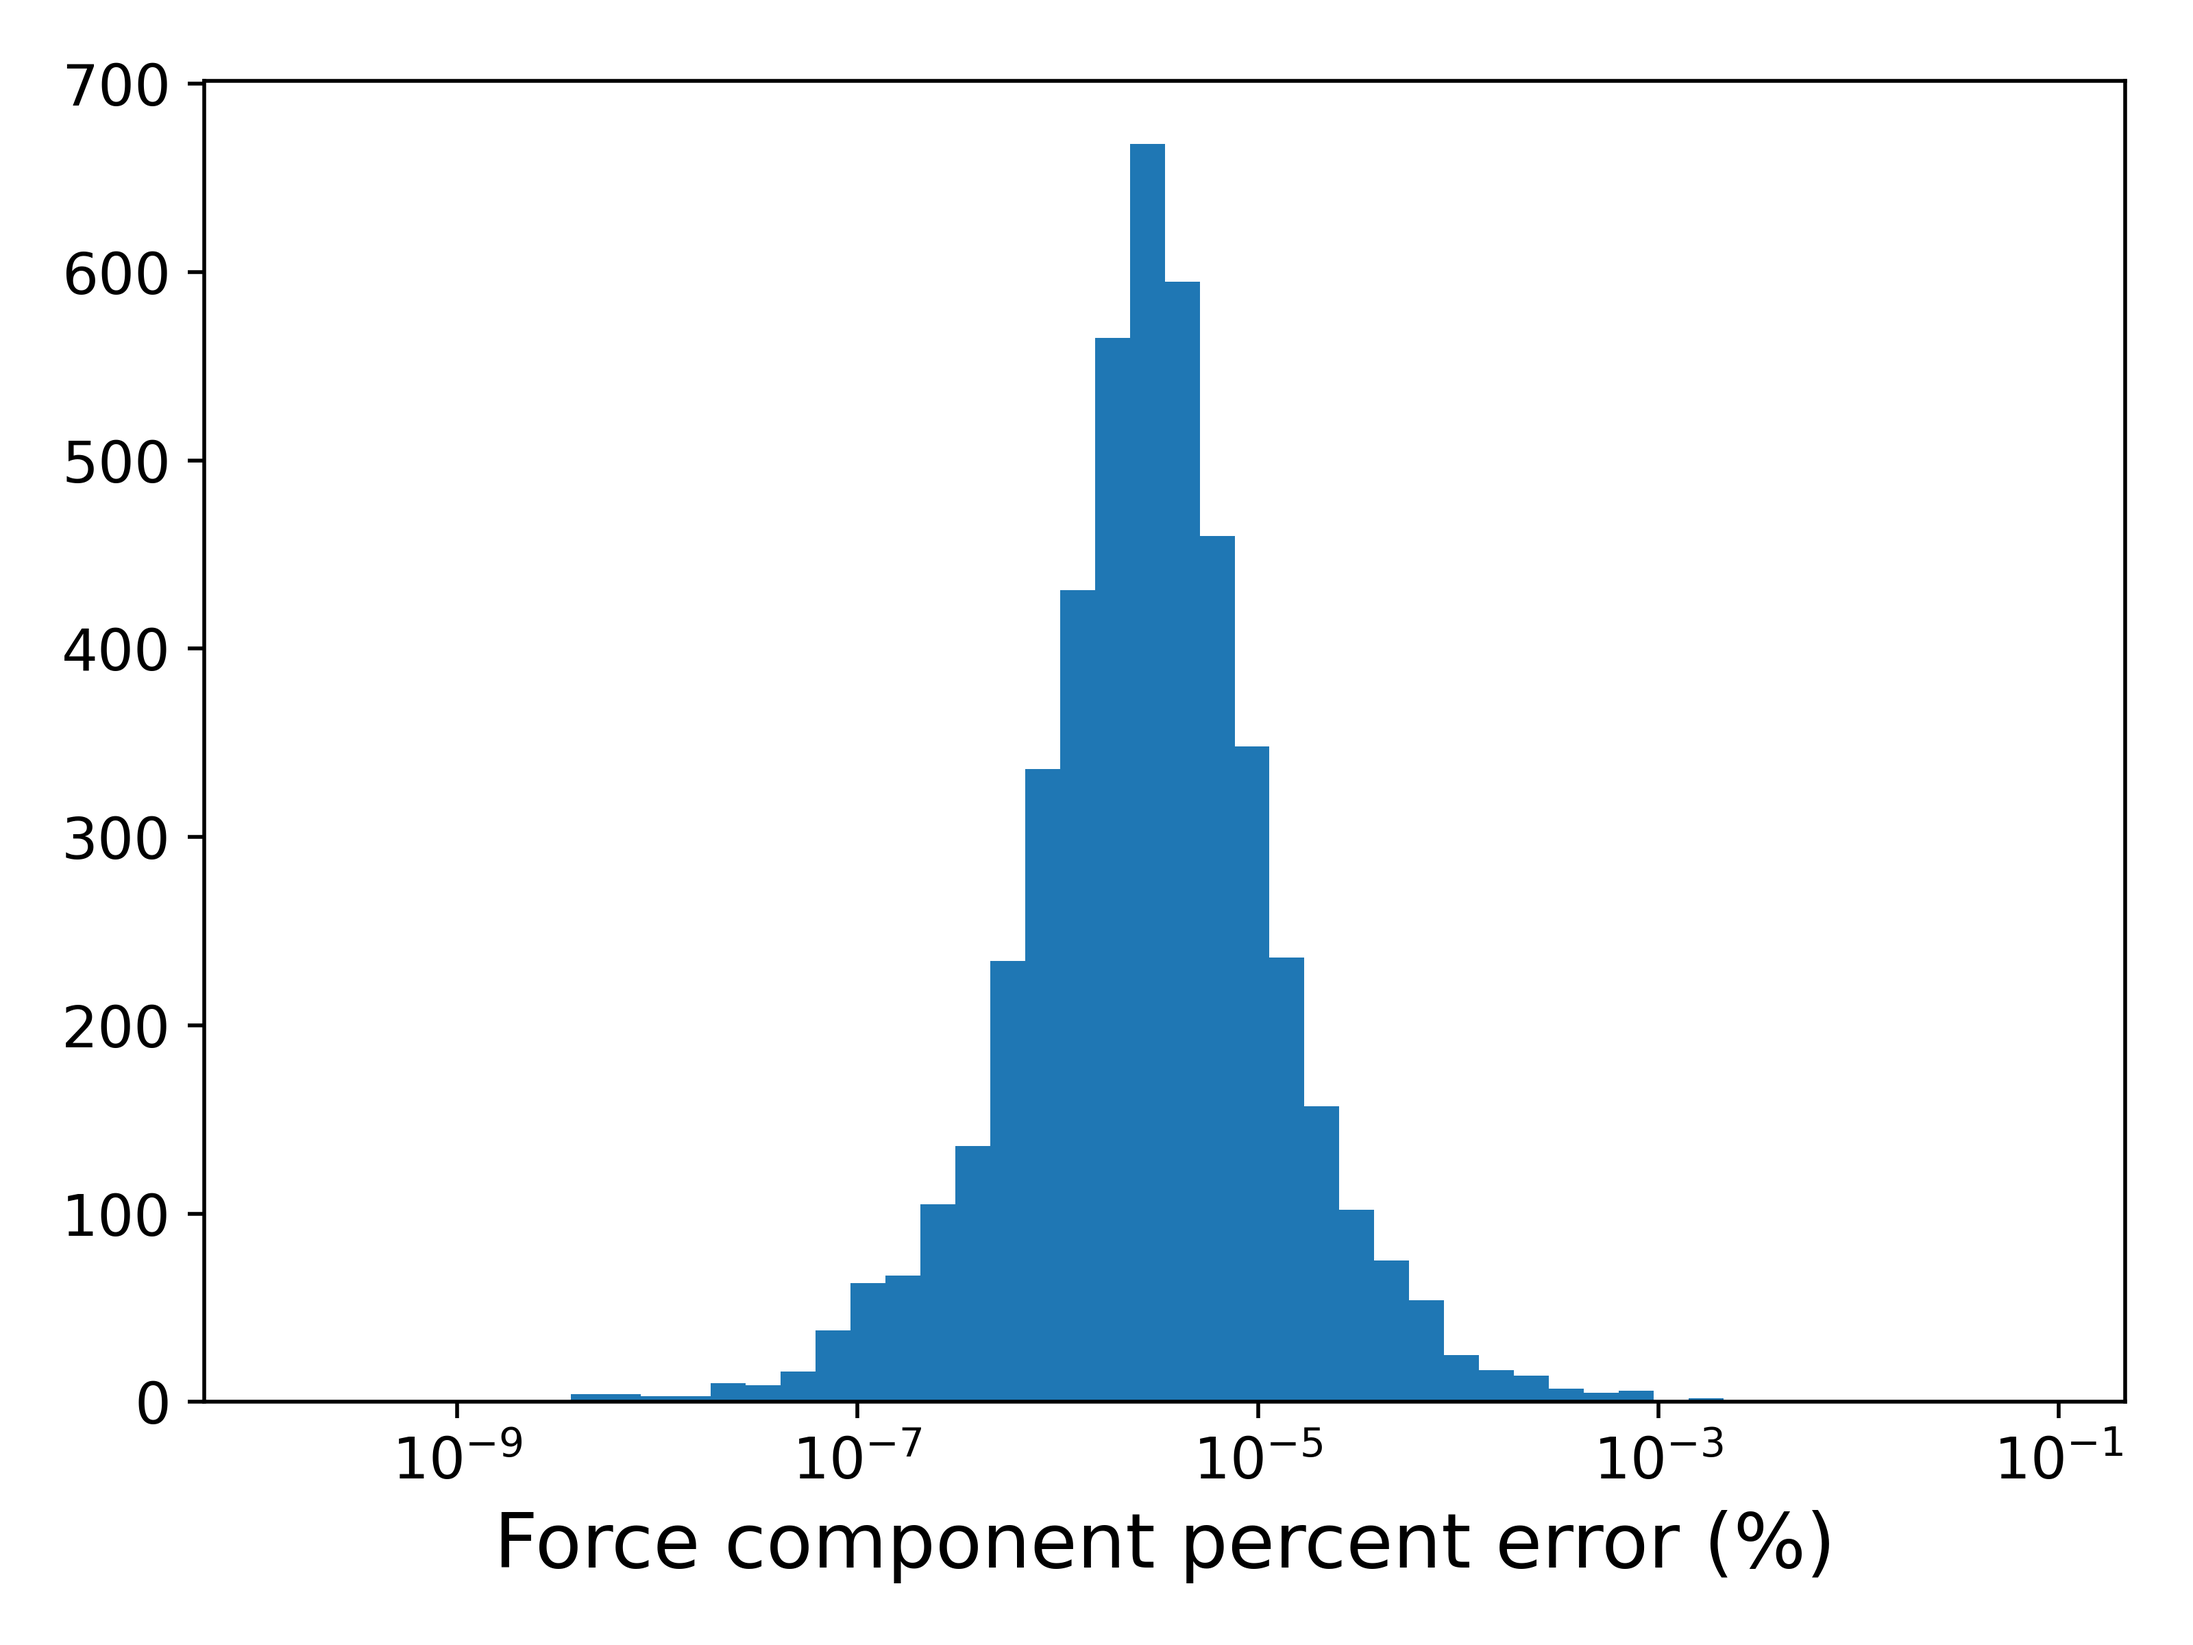
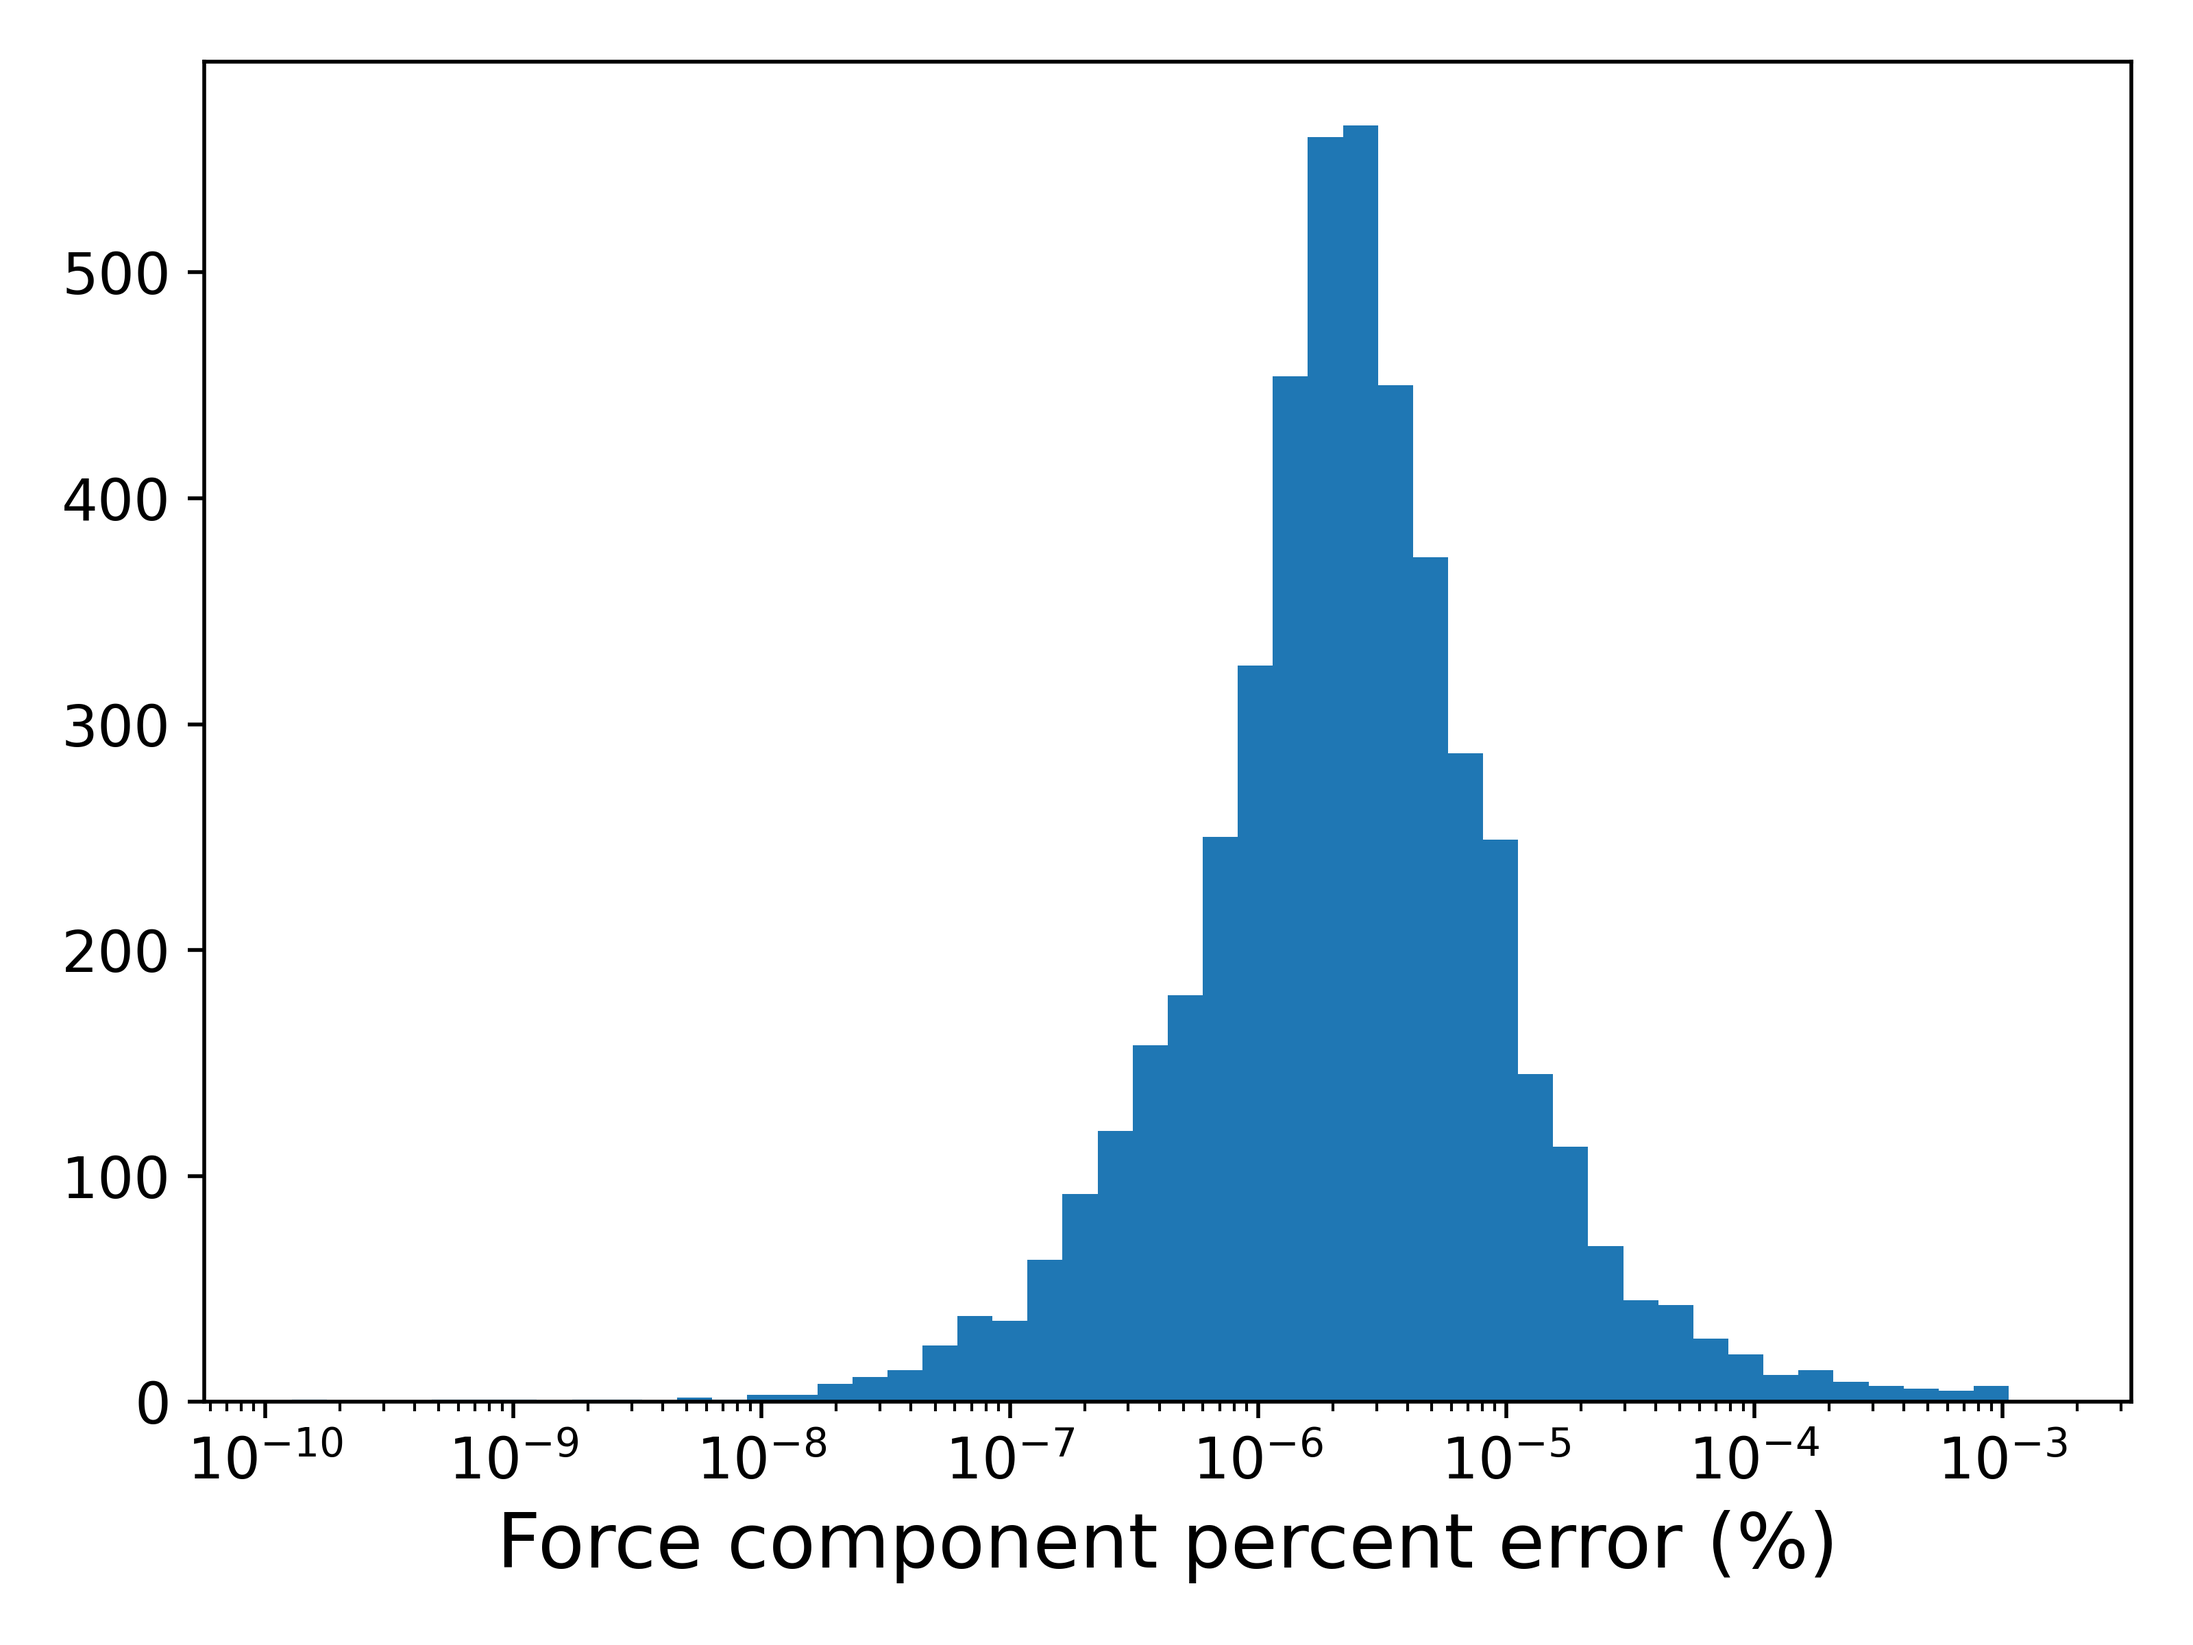
Update finite difference force check to use updated compute snap

diff --git a/examples/Ta_Pytorch_NN_force/fd_force_check.py b/examples/Ta_Pytorch_NN_force/fd_force_check.py
@@ -146,7 +146,7 @@ class FitTorch(torch.nn.Module):
         predicted_fy = torch.reshape(predicted_fy, (natoms,1))
         predicted_fz = torch.reshape(predicted_fz, (natoms,1))
         # Concatenate along the columns
-        predicted_forces = torch.cat((predicted_fx,predicted_fy,predicted_fz), dim=1)
+        predicted_forces = -1.0*torch.cat((predicted_fx,predicted_fy,predicted_fz), dim=1)
         #print(predicted_forces.size())
         #print(x)
         #print(dEdD)
@@ -236,6 +236,15 @@ def calc_model_forces(x0, seed):
     dDdR = lmp_snap[natoms:(natoms+dDdR_length), 3:(nd+3)]
     #force_indices = lmp_snap[natoms:(natoms+dDdR_length), nd:(nd+3)].astype(np.int32)
     force_indices = lmp_snap[natoms:(natoms+dDdR_length), 0:3].astype(np.int32)
+    # strip rows with all zero descriptor gradients to save memory
+
+    nonzero_rows = lmp_snap[natoms:(natoms+dDdR_length),3:(nd+3)] != 0.0
+    nonzero_rows = np.any(nonzero_rows, axis=1)
+    dDdR = dDdR[nonzero_rows, :]
+    force_indices = force_indices[nonzero_rows,:]
+    dDdR_length = np.shape(dDdR)[0]
+
+
     descriptors = torch.from_numpy(descriptors).double().requires_grad_()
     dDdR = torch.from_numpy(dDdR).double().requires_grad_()
     #print(descriptors)
@@ -290,6 +299,15 @@ def calc_fd_forces(x0, seed):
             dDdR = lmp_snap[natoms:(natoms+dDdR_length), 3:(nd+3)]
             #force_indices = lmp_snap[natoms:(natoms+dDdR_length), nd:(nd+3)].astype(np.int32)
             force_indices = lmp_snap[natoms:(natoms+dDdR_length), 0:3].astype(np.int32)
+            # strip rows with all zero descriptor gradients to save memory
+
+            nonzero_rows = lmp_snap[natoms:(natoms+dDdR_length),3:(nd+3)] != 0.0
+            nonzero_rows = np.any(nonzero_rows, axis=1)
+            dDdR = dDdR[nonzero_rows, :]
+            force_indices = force_indices[nonzero_rows,:]
+            dDdR_length = np.shape(dDdR)[0]
+
+
             descriptors = torch.from_numpy(descriptors).double().requires_grad_()
             dDdR = torch.from_numpy(dDdR).double().requires_grad_()
             #print(descriptors)
@@ -331,6 +349,15 @@ def calc_fd_forces(x0, seed):
             dDdR = lmp_snap[natoms:(natoms+dDdR_length), 3:(nd+3)]
             #force_indices = lmp_snap[natoms:(natoms+dDdR_length), nd:(nd+3)].astype(np.int32)
             force_indices = lmp_snap[natoms:(natoms+dDdR_length), 0:3].astype(np.int32)
+            # strip rows with all zero descriptor gradients to save memory
+
+            nonzero_rows = lmp_snap[natoms:(natoms+dDdR_length),3:(nd+3)] != 0.0
+            nonzero_rows = np.any(nonzero_rows, axis=1)
+            dDdR = dDdR[nonzero_rows, :]
+            force_indices = force_indices[nonzero_rows,:]
+            dDdR_length = np.shape(dDdR)[0]
+
+
             descriptors = torch.from_numpy(descriptors).double().requires_grad_()
             dDdR = torch.from_numpy(dDdR).double().requires_grad_()
             (energies, force_junk) = model(descriptors, dDdR, indices, num_atoms, force_indices)
@@ -419,6 +446,15 @@ x0 = lmp.numpy.extract_atom("x").flatten()
 descriptors = lmp_snap[:natoms, 3:(nd+3)]
 #force_indices = lmp_snap[natoms:(natoms+dDdR_length), nd:(nd+3)].astype(np.int32)
 force_indices = lmp_snap[natoms:(natoms+dDdR_length), 0:3].astype(np.int32)
+# strip rows with all zero descriptor gradients to save memory
+
+nonzero_rows = lmp_snap[natoms:(natoms+dDdR_length),3:(nd+3)] != 0.0
+nonzero_rows = np.any(nonzero_rows, axis=1)
+dDdR = dDdR[nonzero_rows, :]
+force_indices = force_indices[nonzero_rows,:]
+dDdR_length = np.shape(dDdR)[0]
+
+
 x_indices = force_indices[0::3]
 y_indices = force_indices[1::3]
 z_indices = force_indices[2::3]
